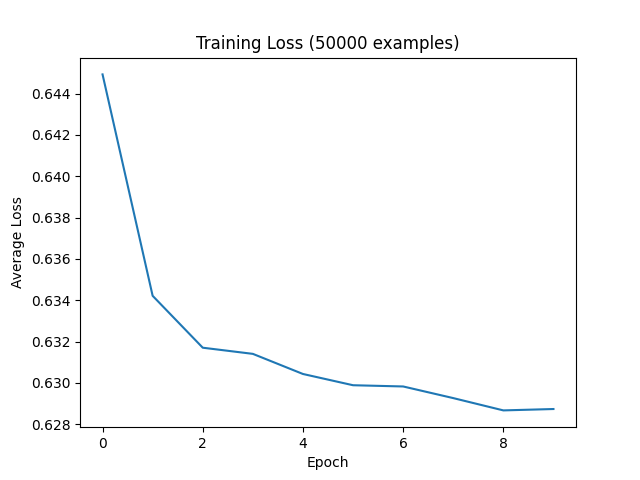
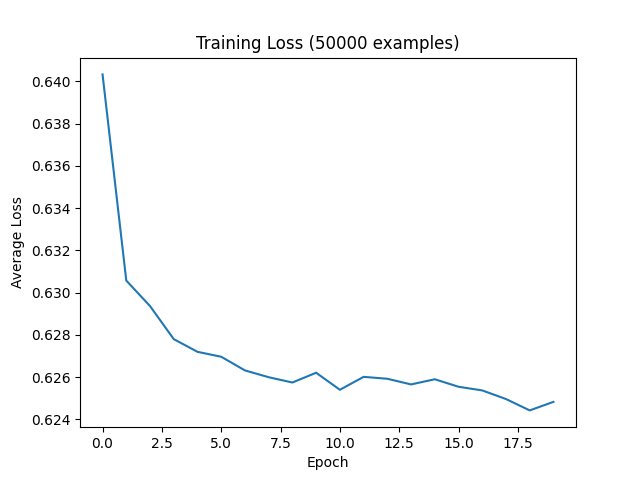
tweak hyperparamters  ran again

diff --git a/main.py b/main.py
@@ -1,7 +1,7 @@
 """
-Student Name: 
-Student ID:
-Student Email:
+Student Name: Sanaa Elattari
+Student ID:21336359
+Student Email: [email redacted] 
 """
 
 
@@ -142,8 +142,8 @@ class RNN(nn.Module):
 
 # hyperparameters
 vocab_size = 10        # digits 0–9
-embedding_size = 8     # small vector size
-hidden_size = 128
+embedding_size = 16     # small vector size
+hidden_size = 256
 output_size = 2        # palindrome or not
 
 # create new model each time 
@@ -151,7 +151,7 @@ def create_model():
     return RNN(vocab_size, embedding_size, hidden_size, output_size)
 
 #training 
-learning_rate = 0.005
+learning_rate = 0.003
 criterion = nn.NLLLoss()
 
 def train(model, category_tensor, line_tensor):
@@ -279,12 +279,12 @@ save_model(model_1000, "model_1000.pth")
 save_loss_plot(losses_1000, "loss_1000.png", "Training Loss (1000 examples)")
 print("Own test accuracy for model_1000:", test_accuracy(model_1000, own_test_1000))
 
-model_50000, losses_50000, own_test_50000 = train_model(50000, 10)  # CHANGED: fewer epochs because dataset is large
+model_50000, losses_50000, own_test_50000 = train_model(50000, 20)  # CHANGED: fewer epochs because dataset is large
 save_model(model_50000, "model_50000.pth")
 save_loss_plot(losses_50000, "loss_50000.png", "Training Loss (50000 examples)")
 print("Own test accuracy for model_50000:", test_accuracy(model_50000, own_test_50000))
 
 # make sure test.csv is in the same folder
-run_on_csv("model_200.pth", "test.csv")
-run_on_csv("model_1000.pth", "test.csv")
-run_on_csv("model_50000.pth", "test.csv")
+#run_on_csv("model_200.pth", "test.csv")
+#run_on_csv("model_1000.pth", "test.csv")
+#run_on_csv("model_50000.pth", "test.csv")

diff --git a/README.md b/README.md
@@ -1,1 +1,109 @@
 # vanilla_RNN-ML-5
+
+# Palindrome Detection using Vanilla RNN
+
+## Student Information
+- Name: Sanaa Elattari
+- Student ID: 21336359
+- Email: [email redacted] 
+
+---
+
+## Overview
+This project implements a vanilla Recurrent Neural Network (RNN) with an embedding layer to classify whether a number (up to 7 digits) is a palindrome.
+
+A palindrome reads the same forwards and backwards (e.g., 121, 1331, 12321).
+
+---
+
+## Model Architecture
+- Input: Sequence of digits (0–9)
+- Embedding size: 16
+- Hidden size: 256
+- Output: Binary classification (0 = not palindrome, 1 = palindrome)
+- Activation: LogSoftmax
+- Loss function: NLLLoss
+- Optimization: Manual SGD
+
+---
+
+## Training Details
+
+Three models were trained:
+
+| Dataset Size | Epochs | Learning Rate |
+|-------------|--------|---------------|
+| 200         | 30     | 0.003         |
+| 1000        | 30     | 0.003         |
+| 50000       | 20     | 0.003         |
+
+---
+
+## Training Results
+
+### Model (200 examples)
+- Final Training Accuracy: ~0.78
+- Test Accuracy: **0.548**
+
+### Model (1000 examples)
+- Final Training Accuracy: ~0.65
+- Test Accuracy: **0.576**
+
+### Model (50000 examples)
+- Final Training Accuracy: ~0.56
+- Test Accuracy: **0.574**
+
+---
+
+## Observations
+
+- The model trained on 200 examples shows signs of overfitting.
+- Increasing dataset size improves generalization slightly.
+- However, performance saturates around ~57%.
+
+This is because vanilla RNNs struggle with long-range dependencies required for palindrome detection.
+
+---
+
+## Training Logs
+
+Training loss plots are included:
+- loss_200.png
+- loss_1000.png
+- loss_50000.png
+
+---
+
+## Files Included
+
+- main.py
+- model_200.pth
+- model_1000.pth
+- model_50000.pth
+- loss_200.png
+- loss_1000.png
+- loss_50000.png
+- README.md
+
+---
+
+## How to Run
+
+### 1. Train the models
+
+Run:
+python3 main.py
+
+### 2. Evaluate on test.csv
+
+To evaluate using the TA-provided test file:
+
+Place `test.csv` in the same directory as `main.py`
+
+Uncomment the following lines at the bottom of `main.py`:
+run_on_csv("model_200.pth", "test.csv")
+run_on_csv("model_1000.pth", "test.csv")
+run_on_csv("model_50000.pth", "test.csv")
+
+Run:
+python3 main.py